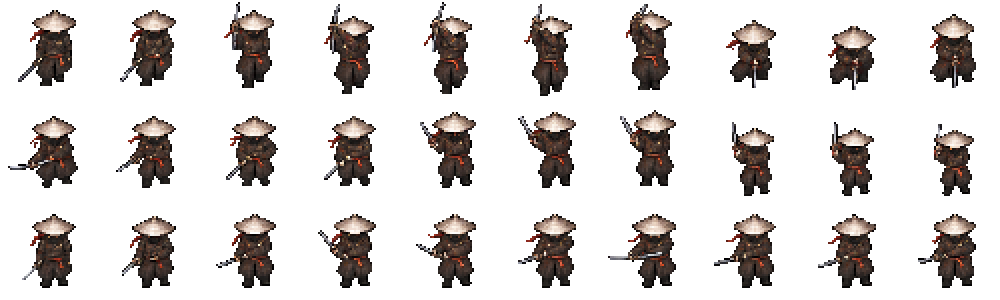
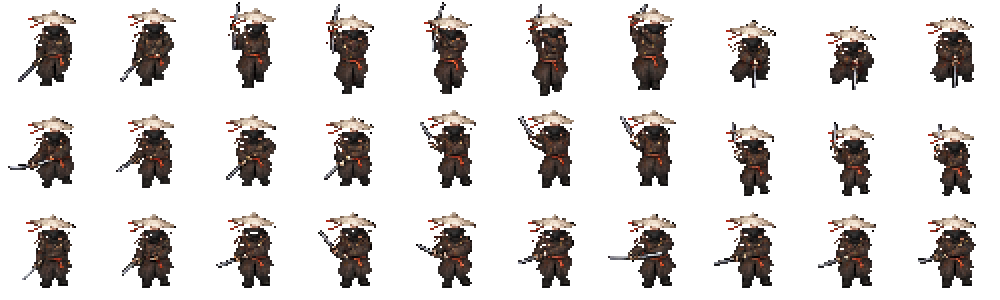
위 아래 공격 시트지 수정

diff --git a/Player.py b/Player.py
@@ -3,6 +3,9 @@ from math import sqrt
 from pico2d import *
 from transitions import Machine
 
+# Down attack poses are wider than the matching idle and run sprites.
+DOWN_ATTACK_WIDTH_SCALE = 0.86
+
 class player:
     UP, RIGHT, DOWN, LEFT = range(4)
     KEY_INPUTS = {SDLK_UP, SDLK_RIGHT, SDLK_DOWN, SDLK_LEFT}
@@ -64,8 +67,7 @@ class player:
             transitions=[
                 {'trigger': 'start_running', 'source': 'IDLE', 'dest': 'RUN'},
                 {'trigger': 'stop_running', 'source': 'RUN', 'dest': 'IDLE'},
-                {'trigger': 'start_attack', 'source': 'IDLE', 'dest': 'ATTACK'},
-                {'trigger': 'start_attack', 'source': 'RUN', 'dest': 'ATTACK'},
+                {'trigger': 'start_attack', 'source': ['IDLE', 'RUN'], 'dest': 'ATTACK'},
                 {'trigger': 'stop_attack', 'source': 'ATTACK', 'dest': 'IDLE'},
             ],
             initial='IDLE',
@@ -156,6 +158,8 @@ class player:
             offset_x, depth = self.ATTACK_SHADOW_CONTACTS[direction][self.attack_combo][self.frame]
             if self.dir == self.LEFT:
                 offset_x = -offset_x
+            elif direction == self.DOWN:
+                offset_x *= DOWN_ATTACK_WIDTH_SCALE
             x += offset_x * self.DRAW_SCALE
             y += (self.FOOT_OFFSET_Y - depth) * self.DRAW_SCALE
         self.shadow.draw(x, y, 54, 8)
@@ -165,16 +169,18 @@ class player:
             self._draw_frame(self.Normal_Attack_Up, self.attack_combo)
             self._draw_frame(self.Attack_Trail_Up, self.attack_combo, cell_height=180)
         elif self.dir == self.DOWN:
-            self._draw_frame(self.Normal_Attack_Down, self.attack_combo)
-            self._draw_frame(self.Attack_Trail_Down, self.attack_combo, cell_height=180)
+            self._draw_frame(self.Normal_Attack_Down, self.attack_combo,
+                             width_scale=DOWN_ATTACK_WIDTH_SCALE)
+            self._draw_frame(self.Attack_Trail_Down, self.attack_combo, cell_height=180,
+                             width_scale=DOWN_ATTACK_WIDTH_SCALE)
         else:
             self._draw_frame(self.Normal_Attack, self.attack_combo)
             self._draw_frame(self.Attack_Trail, self.attack_combo, cell_width=180)
 
-    def _draw_frame(self, image, row, cell_width=100, cell_height=100):
+    def _draw_frame(self, image, row, cell_width=100, cell_height=100, *, width_scale=1):
         left = self.frame * cell_width
         bottom = row * cell_height
-        draw_width = round(cell_width * self.DRAW_SCALE)
+        draw_width = round(cell_width * self.DRAW_SCALE * width_scale)
         draw_height = round(cell_height * self.DRAW_SCALE)
         draw_y = self.y + self.FOOT_OFFSET_Y * (self.DRAW_SCALE - 1)
 

diff --git a/animation_viewer.py b/animation_viewer.py
@@ -1,4 +1,6 @@
 from pico2d import *
+
+from Player import DOWN_ATTACK_WIDTH_SCALE
 counts = 0
 frame = 0
 sheet = 0
@@ -157,8 +159,9 @@ def normal_Attack(counts, frame):
         attack_up.clip_draw(frame*100, counts*100, 100, 100, 400, 300)
         attack_up_trail.clip_draw(frame*100, counts*180, 100, 180, 400, 300)
     elif sheet == 2:
-        attack_down.clip_draw(frame*100, counts*100, 100, 100, 400, 300)
-        attack_down_trail.clip_draw(frame*100, counts*180, 100, 180, 400, 300)
+        width = round(100 * DOWN_ATTACK_WIDTH_SCALE)
+        attack_down.clip_draw(frame*100, counts*100, 100, 100, 400, 300, width, 100)
+        attack_down_trail.clip_draw(frame*100, counts*180, 100, 180, 400, 300, width, 180)
 
 def show_m1():
     global counts, frame
